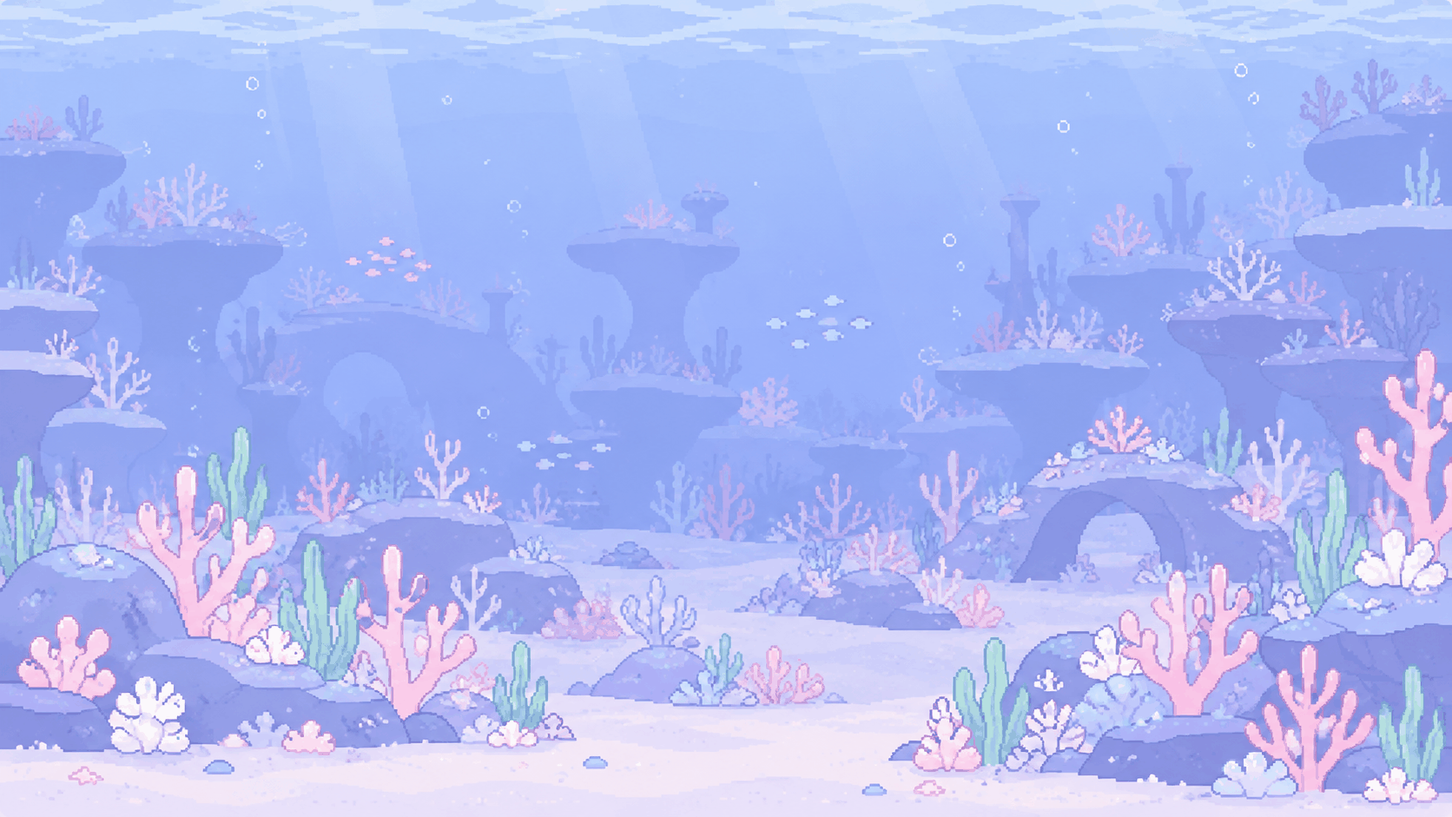
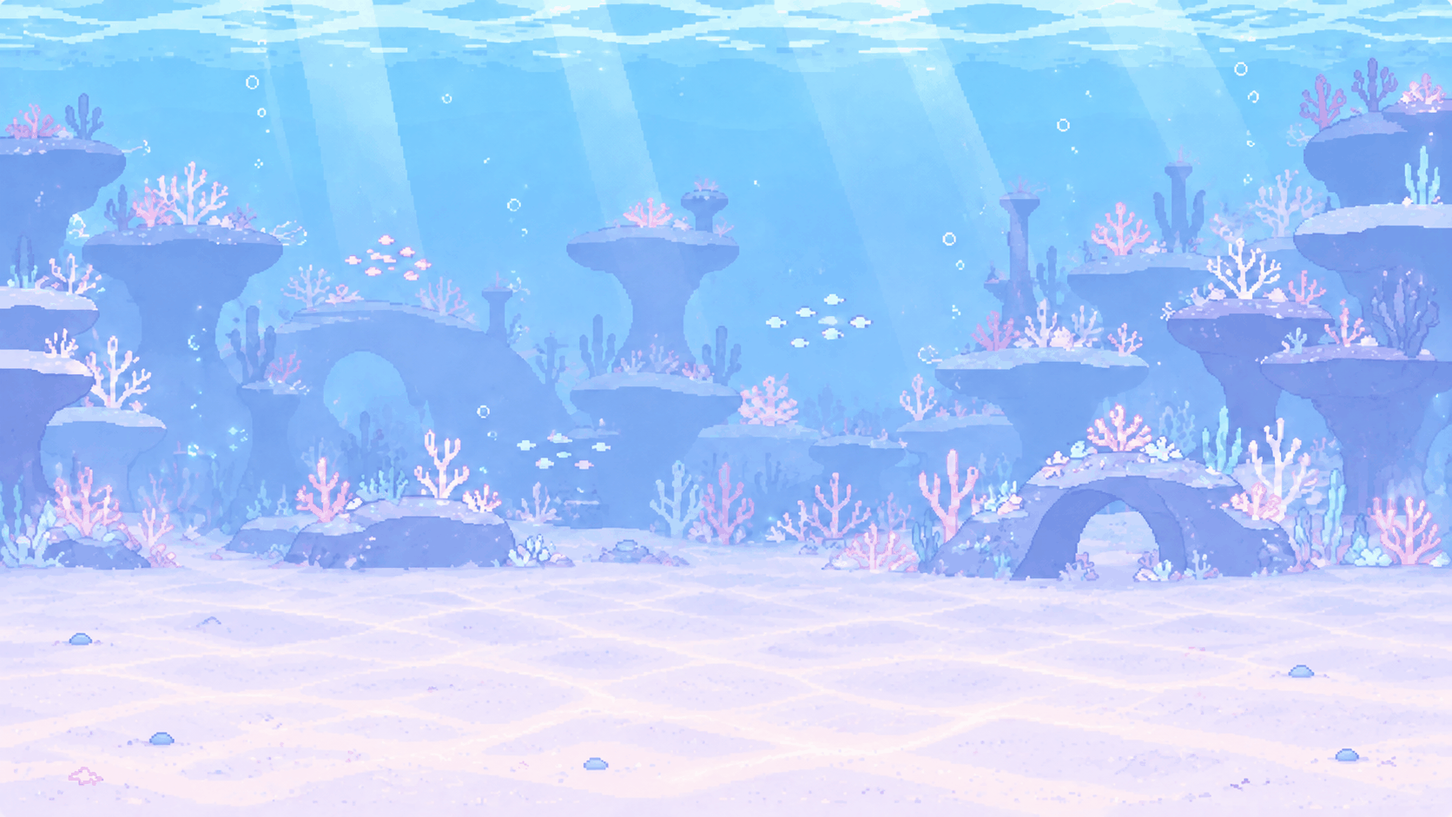
サンゴの森：ピッちゃんの手前なしの背景（ひる・よる）と岩・サンゴ・海藻（開発版）
Claude-Session: https://claude.ai/code/session_01AoJ88BrSyrEsKzo23n7Mg1

diff --git a/source/game.html b/source/game.html
@@ -850,7 +850,7 @@ sprImg.src = 'umimi-sprites.png';
 const COS_IMG = {};
 function cosImgFor(cat){ let im=COS_IMG[cat]; if(!im){ im=COS_IMG[cat]=new Image(); im.onload=()=>{ if(S){ renderTray(); if(!$('closet').hidden) renderCloset(); } }; im.src='c_'+cat+'.png'; } return (im.complete && im.naturalWidth) ? im : null; }
 const VIS_SPR = {"res":1.6,"m":{"jelly":{"w":172,"h":172,"a":"c","y":0},"star":{"w":145,"h":132,"a":"b","y":172},"seahorse":{"w":121,"h":180,"a":"c","y":304},"crab":{"w":180,"h":127,"a":"b","y":484},"dolphin":{"w":236,"h":144,"a":"c","y":611},"penguin":{"w":164,"h":147,"a":"b","y":755},"turtle":{"w":212,"h":145,"a":"b","y":902},"octopus":{"w":164,"h":156,"a":"b","y":1047},"puffer":{"w":161,"h":127,"a":"c","y":1203},"otter":{"w":204,"h":156,"a":"c","y":1330}}};
-const FIMG = {m:{"cbench":{"s":"craft","x":0,"y":0,"w":260,"h":137,"rw":130,"rh":68,"tw":110,"th":58},"cbench_f":{"s":"craft","x":0,"y":139,"w":260,"h":124,"rw":130,"rh":62,"tw":110,"th":52},"ctable":{"s":"craft","x":0,"y":265,"w":220,"h":156,"rw":110,"rh":78,"tw":92,"th":65},"ctable_f":{"s":"craft","x":0,"y":423,"w":220,"h":151,"rw":110,"rh":76,"tw":92,"th":64},"cshelllamp":{"s":"craft","x":0,"y":576,"w":140,"h":141,"rw":70,"rh":70,"tw":62,"th":62},"cshelllamp_f":{"s":"craft","x":0,"y":719,"w":140,"h":142,"rw":70,"rh":71,"tw":62,"th":63},"ccoralpot":{"s":"craft","x":0,"y":863,"w":144,"h":153,"rw":72,"rh":76,"tw":60,"th":63},"ccoralpot_f":{"s":"craft","x":0,"y":1018,"w":144,"h":157,"rw":72,"rh":78,"tw":60,"th":65},"cmobile":{"s":"craft","x":0,"y":1177,"w":160,"h":213,"rw":80,"rh":106,"tw":72,"th":95},"cmobile_f":{"s":"craft","x":0,"y":1392,"w":160,"h":230,"rw":80,"rh":115,"tw":72,"th":104},"bwork":{"s":"craft","x":0,"y":1624,"w":380,"h":352,"rw":190,"rh":176,"tw":190,"th":176},"bsign":{"s":"craft","x":382,"y":0,"w":300,"h":206,"rw":150,"rh":103,"tw":150,"th":103},"bkiln":{"s":"craft","x":382,"y":208,"w":320,"h":318,"rw":160,"rh":159,"tw":160,"th":159},"rug":{"s":"base","x":0,"y":0,"w":340,"h":190,"rw":170,"rh":95,"tw":0,"th":0},"bed":{"s":"base","x":0,"y":192,"w":300,"h":283,"rw":150,"rh":142,"tw":0,"th":0},"lamp":{"s":"base","x":0,"y":477,"w":132,"h":234,"rw":66,"rh":117,"tw":0,"th":0},"cushion":{"s":"base","x":0,"y":713,"w":160,"h":113,"rw":80,"rh":56,"tw":0,"th":0},"plant":{"s":"base","x":0,"y":828,"w":124,"h":153,"rw":62,"rh":76,"tw":0,"th":0},"shelf":{"s":"base","x":0,"y":983,"w":210,"h":332,"rw":105,"rh":166,"tw":0,"th":0},"window":{"s":"base","x":0,"y":1317,"w":270,"h":232,"rw":135,"rh":116,"tw":0,"th":0},"windowday":{"s":"base","x":0,"y":1551,"w":270,"h":232,"rw":135,"rh":116,"tw":0,"th":0},"frame":{"s":"base","x":0,"y":1785,"w":144,"h":148,"rw":72,"rh":74,"tw":0,"th":0},"table":{"s":"base","x":342,"y":0,"w":230,"h":187,"rw":115,"rh":94,"tw":0,"th":0},"shellbed":{"s":"pearl","x":0,"y":0,"w":350,"h":326,"rw":175,"rh":163,"tw":110,"th":102},"shelltable":{"s":"pearl","x":0,"y":328,"w":250,"h":160,"rw":125,"rh":80,"tw":82,"th":52},"shellchair":{"s":"pearl","x":0,"y":490,"w":210,"h":198,"rw":105,"rh":99,"tw":72,"th":68},"bottle":{"s":"pearl","x":0,"y":690,"w":116,"h":136,"rw":58,"rh":68,"tw":42,"th":49},"crystal2":{"s":"pearl","x":0,"y":828,"w":180,"h":164,"rw":90,"rh":82,"tw":62,"th":56},"shellcake":{"s":"pearl","x":0,"y":994,"w":156,"h":161,"rw":78,"rh":80,"tw":54,"th":55},"lanternstand":{"s":"autumn","x":0,"y":0,"w":200,"h":266,"rw":100,"rh":133,"tw":95,"th":126},"stall":{"s":"autumn","x":0,"y":268,"w":400,"h":313,"rw":200,"rh":156,"tw":180,"th":140},"kingyo":{"s":"autumn","x":0,"y":583,"w":380,"h":295,"rw":190,"rh":148,"tw":160,"th":125},"mcushion":{"s":"autumn","x":0,"y":880,"w":230,"h":142,"rw":115,"rh":71,"tw":90,"th":56},"garland":{"s":"autumn","x":0,"y":1024,"w":600,"h":198,"rw":300,"rh":99,"tw":200,"th":66},"chochin":{"s":"autumn","x":0,"y":1224,"w":160,"h":329,"rw":80,"rh":164,"tw":80,"th":164},"omen":{"s":"autumn","x":0,"y":1555,"w":400,"h":349,"rw":200,"rh":174,"tw":180,"th":157},"acorn":{"s":"autumn","x":602,"y":0,"w":120,"h":103,"rw":60,"rh":52,"tw":42,"th":36},"yakiimo":{"s":"autumn","x":602,"y":105,"w":140,"h":90,"rw":70,"rh":45,"tw":48,"th":31},"bridge":{"s":"autumn","x":602,"y":197,"w":460,"h":206,"rw":230,"rh":103,"tw":200,"th":90},"pumpkinstand":{"s":"halloween","x":0,"y":0,"w":170,"h":344,"rw":85,"rh":172,"tw":80,"th":162},"hrug":{"s":"halloween","x":0,"y":346,"w":340,"h":200,"rw":170,"rh":100,"tw":120,"th":71},"ghostcushion":{"s":"halloween","x":0,"y":548,"w":170,"h":149,"rw":85,"rh":74,"tw":72,"th":63},"hframe":{"s":"halloween","x":0,"y":699,"w":160,"h":187,"rw":80,"rh":94,"tw":0,"th":0},"candytable":{"s":"halloween","x":0,"y":888,"w":210,"h":244,"rw":105,"rh":122,"tw":82,"th":95},"hshelf":{"s":"halloween","x":0,"y":1134,"w":230,"h":309,"rw":115,"rh":154,"tw":100,"th":134},"jbox_0":{"s":"halloween","x":0,"y":1445,"w":170,"h":170,"rw":85,"rh":85,"tw":74,"th":74},"jbox_1":{"s":"halloween","x":0,"y":1617,"w":170,"h":170,"rw":85,"rh":85,"tw":74,"th":74},"jbox_2":{"s":"halloween","x":0,"y":1789,"w":170,"h":170,"rw":85,"rh":85,"tw":74,"th":74},"jbox_3":{"s":"halloween","x":342,"y":0,"w":170,"h":170,"rw":85,"rh":85,"tw":74,"th":74},"chandelier_0":{"s":"halloween","x":342,"y":172,"w":260,"h":375,"rw":130,"rh":188,"tw":0,"th":0},"chandelier_1":{"s":"halloween","x":342,"y":549,"w":260,"h":375,"rw":130,"rh":188,"tw":0,"th":0},"chandelier_2":{"s":"halloween","x":342,"y":926,"w":260,"h":375,"rw":130,"rh":188,"tw":0,"th":0},"jbox":{"s":"halloween","x":0,"y":1445,"w":170,"h":170,"rw":85,"rh":85,"tw":74,"th":74},"chandelier":{"s":"halloween","x":342,"y":172,"w":260,"h":375,"rw":130,"rh":188,"tw":0,"th":0},"pdresser":{"s":"pearl","x":0,"y":1157,"w":250,"h":279,"rw":125,"rh":140,"tw":84,"th":94},"pdresser2":{"s":"pearl","x":0,"y":1438,"w":240,"h":312,"rw":120,"rh":156,"tw":82,"th":107},"pnight":{"s":"pearl","x":0,"y":1752,"w":156,"h":203,"rw":78,"rh":102,"tw":56,"th":73},"psofa":{"s":"pearl","x":352,"y":0,"w":370,"h":241,"rw":185,"rh":120,"tw":124,"th":80},"pbox":{"s":"pearl","x":352,"y":243,"w":100,"h":83,"rw":50,"rh":42,"tw":36,"th":30},"bcoral":{"s":"craft","x":382,"y":528,"w":260,"h":236,"rw":130,"rh":118,"tw":130,"th":118}}};
+const FIMG = {m:{"cbench":{"s":"craft","x":0,"y":0,"w":260,"h":137,"rw":130,"rh":68,"tw":110,"th":58},"cbench_f":{"s":"craft","x":0,"y":139,"w":260,"h":124,"rw":130,"rh":62,"tw":110,"th":52},"ctable":{"s":"craft","x":0,"y":265,"w":220,"h":156,"rw":110,"rh":78,"tw":92,"th":65},"ctable_f":{"s":"craft","x":0,"y":423,"w":220,"h":151,"rw":110,"rh":76,"tw":92,"th":64},"cshelllamp":{"s":"craft","x":0,"y":576,"w":140,"h":141,"rw":70,"rh":70,"tw":62,"th":62},"cshelllamp_f":{"s":"craft","x":0,"y":719,"w":140,"h":142,"rw":70,"rh":71,"tw":62,"th":63},"ccoralpot":{"s":"craft","x":0,"y":863,"w":144,"h":153,"rw":72,"rh":76,"tw":60,"th":63},"ccoralpot_f":{"s":"craft","x":0,"y":1018,"w":144,"h":157,"rw":72,"rh":78,"tw":60,"th":65},"cmobile":{"s":"craft","x":0,"y":1177,"w":160,"h":213,"rw":80,"rh":106,"tw":72,"th":95},"cmobile_f":{"s":"craft","x":0,"y":1392,"w":160,"h":230,"rw":80,"rh":115,"tw":72,"th":104},"bwork":{"s":"craft","x":0,"y":1624,"w":380,"h":352,"rw":190,"rh":176,"tw":190,"th":176},"bsign":{"s":"craft","x":382,"y":0,"w":300,"h":206,"rw":150,"rh":103,"tw":150,"th":103},"bkiln":{"s":"craft","x":382,"y":208,"w":320,"h":318,"rw":160,"rh":159,"tw":160,"th":159},"rug":{"s":"base","x":0,"y":0,"w":340,"h":190,"rw":170,"rh":95,"tw":0,"th":0},"bed":{"s":"base","x":0,"y":192,"w":300,"h":283,"rw":150,"rh":142,"tw":0,"th":0},"lamp":{"s":"base","x":0,"y":477,"w":132,"h":234,"rw":66,"rh":117,"tw":0,"th":0},"cushion":{"s":"base","x":0,"y":713,"w":160,"h":113,"rw":80,"rh":56,"tw":0,"th":0},"plant":{"s":"base","x":0,"y":828,"w":124,"h":153,"rw":62,"rh":76,"tw":0,"th":0},"shelf":{"s":"base","x":0,"y":983,"w":210,"h":332,"rw":105,"rh":166,"tw":0,"th":0},"window":{"s":"base","x":0,"y":1317,"w":270,"h":232,"rw":135,"rh":116,"tw":0,"th":0},"windowday":{"s":"base","x":0,"y":1551,"w":270,"h":232,"rw":135,"rh":116,"tw":0,"th":0},"frame":{"s":"base","x":0,"y":1785,"w":144,"h":148,"rw":72,"rh":74,"tw":0,"th":0},"table":{"s":"base","x":342,"y":0,"w":230,"h":187,"rw":115,"rh":94,"tw":0,"th":0},"shellbed":{"s":"pearl","x":0,"y":0,"w":350,"h":326,"rw":175,"rh":163,"tw":110,"th":102},"shelltable":{"s":"pearl","x":0,"y":328,"w":250,"h":160,"rw":125,"rh":80,"tw":82,"th":52},"shellchair":{"s":"pearl","x":0,"y":490,"w":210,"h":198,"rw":105,"rh":99,"tw":72,"th":68},"bottle":{"s":"pearl","x":0,"y":690,"w":116,"h":136,"rw":58,"rh":68,"tw":42,"th":49},"crystal2":{"s":"pearl","x":0,"y":828,"w":180,"h":164,"rw":90,"rh":82,"tw":62,"th":56},"shellcake":{"s":"pearl","x":0,"y":994,"w":156,"h":161,"rw":78,"rh":80,"tw":54,"th":55},"lanternstand":{"s":"autumn","x":0,"y":0,"w":200,"h":266,"rw":100,"rh":133,"tw":95,"th":126},"stall":{"s":"autumn","x":0,"y":268,"w":400,"h":313,"rw":200,"rh":156,"tw":180,"th":140},"kingyo":{"s":"autumn","x":0,"y":583,"w":380,"h":295,"rw":190,"rh":148,"tw":160,"th":125},"mcushion":{"s":"autumn","x":0,"y":880,"w":230,"h":142,"rw":115,"rh":71,"tw":90,"th":56},"garland":{"s":"autumn","x":0,"y":1024,"w":600,"h":198,"rw":300,"rh":99,"tw":200,"th":66},"chochin":{"s":"autumn","x":0,"y":1224,"w":160,"h":329,"rw":80,"rh":164,"tw":80,"th":164},"omen":{"s":"autumn","x":0,"y":1555,"w":400,"h":349,"rw":200,"rh":174,"tw":180,"th":157},"acorn":{"s":"autumn","x":602,"y":0,"w":120,"h":103,"rw":60,"rh":52,"tw":42,"th":36},"yakiimo":{"s":"autumn","x":602,"y":105,"w":140,"h":90,"rw":70,"rh":45,"tw":48,"th":31},"bridge":{"s":"autumn","x":602,"y":197,"w":460,"h":206,"rw":230,"rh":103,"tw":200,"th":90},"pumpkinstand":{"s":"halloween","x":0,"y":0,"w":170,"h":344,"rw":85,"rh":172,"tw":80,"th":162},"hrug":{"s":"halloween","x":0,"y":346,"w":340,"h":200,"rw":170,"rh":100,"tw":120,"th":71},"ghostcushion":{"s":"halloween","x":0,"y":548,"w":170,"h":149,"rw":85,"rh":74,"tw":72,"th":63},"hframe":{"s":"halloween","x":0,"y":699,"w":160,"h":187,"rw":80,"rh":94,"tw":0,"th":0},"candytable":{"s":"halloween","x":0,"y":888,"w":210,"h":244,"rw":105,"rh":122,"tw":82,"th":95},"hshelf":{"s":"halloween","x":0,"y":1134,"w":230,"h":309,"rw":115,"rh":154,"tw":100,"th":134},"jbox_0":{"s":"halloween","x":0,"y":1445,"w":170,"h":170,"rw":85,"rh":85,"tw":74,"th":74},"jbox_1":{"s":"halloween","x":0,"y":1617,"w":170,"h":170,"rw":85,"rh":85,"tw":74,"th":74},"jbox_2":{"s":"halloween","x":0,"y":1789,"w":170,"h":170,"rw":85,"rh":85,"tw":74,"th":74},"jbox_3":{"s":"halloween","x":342,"y":0,"w":170,"h":170,"rw":85,"rh":85,"tw":74,"th":74},"chandelier_0":{"s":"halloween","x":342,"y":172,"w":260,"h":375,"rw":130,"rh":188,"tw":0,"th":0},"chandelier_1":{"s":"halloween","x":342,"y":549,"w":260,"h":375,"rw":130,"rh":188,"tw":0,"th":0},"chandelier_2":{"s":"halloween","x":342,"y":926,"w":260,"h":375,"rw":130,"rh":188,"tw":0,"th":0},"jbox":{"s":"halloween","x":0,"y":1445,"w":170,"h":170,"rw":85,"rh":85,"tw":74,"th":74},"chandelier":{"s":"halloween","x":342,"y":172,"w":260,"h":375,"rw":130,"rh":188,"tw":0,"th":0},"pdresser":{"s":"pearl","x":0,"y":1157,"w":250,"h":279,"rw":125,"rh":140,"tw":84,"th":94},"pdresser2":{"s":"pearl","x":0,"y":1438,"w":240,"h":312,"rw":120,"rh":156,"tw":82,"th":107},"pnight":{"s":"pearl","x":0,"y":1752,"w":156,"h":203,"rw":78,"rh":102,"tw":56,"th":73},"psofa":{"s":"pearl","x":352,"y":0,"w":370,"h":241,"rw":185,"rh":120,"tw":124,"th":80},"pbox":{"s":"pearl","x":352,"y":243,"w":100,"h":83,"rw":50,"rh":42,"tw":36,"th":30},"bcoral":{"s":"craft","x":382,"y":528,"w":260,"h":236,"rw":130,"rh":118,"tw":130,"th":118},"frock1":{"s":"forest","x":0,"y":0,"w":400,"h":255,"rw":200,"rh":128,"tw":200,"th":128},"frock2":{"s":"forest","x":0,"y":257,"w":340,"h":290,"rw":170,"rh":145,"tw":170,"th":145},"frock3":{"s":"forest","x":0,"y":549,"w":300,"h":162,"rw":150,"rh":81,"tw":150,"th":81},"frock4":{"s":"forest","x":0,"y":713,"w":360,"h":181,"rw":180,"rh":90,"tw":180,"th":90},"frock5":{"s":"forest","x":0,"y":896,"w":320,"h":249,"rw":160,"rh":124,"tw":160,"th":124},"frock6":{"s":"forest","x":0,"y":1147,"w":400,"h":190,"rw":200,"rh":95,"tw":200,"th":95},"fkelp1":{"s":"forest","x":0,"y":1339,"w":160,"h":234,"rw":80,"rh":117,"tw":80,"th":117},"fkelp2":{"s":"forest","x":0,"y":1575,"w":172,"h":254,"rw":86,"rh":127,"tw":86,"th":127}}};
 const FSHEETS = {};
 function fsheet(n){ let im=FSHEETS[n]; if(!im){ im=FSHEETS[n]=new Image(); im.onload=()=>{ if(S && mode==='decor') renderTray(); if(typeof asobiView!=='undefined' && asobiView==='room' && room && room.edit) renderAsobi(); }; im.src='f_'+n+'.png'; } return (im.complete && im.naturalWidth) ? im : null; }
 function animKey(k,seed){
@@ -3889,26 +3889,26 @@ function drawCoral(c,co,x,base,s,col,sway){
   c.restore();
 }
 const bgForest = new Image(); let bgForestOn = false; bgForest.onload = () => { bgForestOn = true; }; bgForest.src = 'bg_forest.png';
-const BGF_CUT = .64;   // 絵の 上から この わりあいまでを 奥の背景に使う（下の 手前のサンゴは 使わない）
+const bgForestN = new Image(); let bgForestNOn = false; bgForestN.onload = () => { bgForestNOn = true; };   // よるの絵（よるに 森を見たとき はじめて読み込む）
+// 森の 岩・サンゴ・海藻（ピッちゃん作 f_forest.png と bcoral）[キー, x, 奥行き, 大きさ, 向き]
+const B_ROCKS = [['frock2',70,.98,1,1],['fkelp2',185,.9,.95,1],['frock6',960,.95,.95,-1],['fkelp1',860,.97,.9,-1],['frock4',380,.03,.62,-1],['frock3',150,.16,.66,1],['fkelp1',255,.05,.62,1],['frock5',650,.05,.55,1],['frock1',1010,.3,.7,-1],['bcoral',470,.62,.55,1]];
+const BGF_HZ = .69;   // 絵の 砂の はじまり（上からの わりあい）。ここを floorTop に合わせる
 function drawBgB(p){
   const c = ctx, sc = bScn;
   if(bgForestOn && bgForest.naturalWidth){
-    // 奥：絵の上の部分（岩山・遠くのサンゴ・光）だけを使う。足場の砂は コードで たいらに描く
-    const iw = bgForest.naturalWidth, ih = bgForest.naturalHeight, cut = BGF_CUT*ih, base = floorTop + 26;
-    const s = Math.max(W/iw, base/cut), ox = (W - iw*s)/2, oy = base - cut*s;
-    c.imageSmoothingEnabled = false; c.drawImage(bgForest, 0, 0, iw, cut, ox, oy, iw*s, cut*s); c.imageSmoothingEnabled = true;
-    let g = c.createLinearGradient(0,0,0,base); g.addColorStop(0,'rgba(236,240,255,.06)'); g.addColorStop(1,'rgba(236,240,255,.18)'); c.fillStyle = g; c.fillRect(0,0,W,base);
-    // 足場の砂
-    g = c.createLinearGradient(0,floorTop-10,0,H); g.addColorStop(0,'#c4cbf9'); g.addColorStop(.25,'#d4d4f9'); g.addColorStop(1,'#ebe5f8');
-    c.fillStyle = g; c.beginPath(); c.moveTo(0,H);
-    for(let x=0;x<=W;x+=20) c.lineTo(x, floorTop + Math.sin(x*.011+2)*9 + Math.sin(x*.029)*4);
-    c.lineTo(W,H); c.closePath(); c.fill();
-    c.strokeStyle = 'rgba(255,255,255,.55)'; c.lineWidth = 2; c.beginPath();
-    for(let x=0;x<=W;x+=20) c.lineTo(x, floorTop + Math.sin(x*.011+2)*9 + Math.sin(x*.029)*4 + 1); c.stroke();
-    sandDots.forEach(d => { c.fillStyle = d.l ? 'rgba(255,255,255,.55)' : 'rgba(150,150,210,.18)'; c.beginPath(); c.ellipse(d.x, floorTop+16+d.f*(H-floorTop-16), d.r*1.6, d.r*.8, 0, 0, TAU); c.fill(); });
-    c.fillStyle = 'rgba(150,160,215,.35)'; bScn.pebbles.forEach(pb => { c.beginPath(); c.ellipse(pb.x, floorY(pb.d), pb.r*1.6, pb.r*.7, 0, 0, TAU); c.fill(); });
+    if(night > .01 && !bgForestN.getAttribute('src')) bgForestN.src = 'bg_forest_n.png';
+    const iw = bgForest.naturalWidth, ih = bgForest.naturalHeight, base = floorTop - 6;
+    const s = Math.max(W/iw, base/(BGF_HZ*ih)), dw = iw*s, dh = ih*s, ox = (W-dw)/2, oy = base - BGF_HZ*ih*s;
+    const nA = (bgForestNOn && night > .01) ? night : 0;
+    if(oy + dh < H){ // たて長の画面：絵の下を 砂の色で のばす
+      c.fillStyle = '#f0e5fa'; c.fillRect(0, oy+dh-2, W, H-oy-dh+2);
+      if(nA){ c.globalAlpha = nA; c.fillStyle = '#7a7fe9'; c.fillRect(0, oy+dh-2, W, H-oy-dh+2); c.globalAlpha = 1; } }
+    c.imageSmoothingEnabled = false; c.drawImage(bgForest, ox, oy, dw, dh);
+    if(nA){ c.globalAlpha = nA; c.drawImage(bgForestN, ox, oy, dw, dh); c.globalAlpha = 1; }
+    c.imageSmoothingEnabled = true;
+    let g;
     if(dusk > .01){ c.fillStyle = `rgba(255,170,190,${.16*dusk})`; c.fillRect(0,0,W,H); }
-    if(night > .01){ c.fillStyle = `rgba(18,26,70,${.5*night})`; c.fillRect(0,0,W,H);
+    if(night > .01){ c.fillStyle = `rgba(18,26,70,${(nA ? .1 : .5)*night})`; c.fillRect(0,0,W,H);
       const moonX = W*0.2, moonY = 56; c.globalAlpha = night; g = c.createRadialGradient(moonX,moonY,0,moonX,moonY,120); g.addColorStop(0,'rgba(255,246,214,.45)'); g.addColorStop(1,'rgba(255,246,214,0)'); c.fillStyle = g; c.fillRect(moonX-120,moonY-120,240,240);
       c.fillStyle = 'rgba(255,245,210,.9)'; c.beginPath(); c.ellipse(moonX+Math.sin(T*.8)*2,moonY,22,19,0,0,TAU); c.fill(); c.globalAlpha = 1; }
     c.strokeStyle = `rgba(255,255,255,${.4-.25*night})`; c.lineWidth = 2; c.beginPath();
@@ -4006,7 +4006,9 @@ function drawAreaB(){
   const p = scenePalB(phase);
   drawBgB(p);
   const items = [];
-  if(bgForestOn) [[80,.98,1.05,1],[975,.92,.9,-1],[390,.02,.62,-1],[150,.18,.7,1],[660,.06,.55,1]].forEach(([x,d,k2,fx]) => { const fm=FIMG.m.bcoral; if(fm && fsheet(fm.s)) items.push({y:floorY(d)+.03, f:() => { const s=scaleD(d)*k2; c.fillStyle='rgba(120,120,190,.14)'; c.beginPath(); c.ellipse(x,floorY(d)+2*s,fm.tw*.42*s,7*s,0,0,TAU); c.fill(); c.save(); c.translate(x,floorY(d)+6*s); c.scale(s*fx,s); drawFImg(c,'bcoral',fm.tw,fm.th,0); c.restore(); }}); });
+  if(bgForestOn) B_ROCKS.forEach(([k,x,d,k2,fx]) => { const fm=FIMG.m[k]; if(fm && fsheet(fm.s)) items.push({y:floorY(d)+.03, f:() => { const s=scaleD(d)*k2, y0=floorY(d); c.fillStyle='rgba(120,120,190,.14)'; c.beginPath(); c.ellipse(x,y0+2*s,fm.tw*.42*s,7*s,0,0,TAU); c.fill(); c.save(); c.translate(x,y0+6*s); c.scale(s*fx,s);
+    if(k[1]==='k'){ c.transform(1,0,Math.sin(T*.9+x*.013)*.07,1,0,0); }   // 海藻は ゆらゆら
+    drawFImg(c,k,fm.tw,fm.th,0); c.restore(); }}); });
   if(!bgForestOn) bScn.front.forEach(co => items.push({y:floorY(co.d)-.02, f:() => { const s=scaleD(co.d); drawCoral(c,co,co.x,floorY(co.d)+4*s,s,co.col,.03);
     if(night>.05) co.segs.forEach(sg => { if(sg[0]===sg[2] && sg[1]===sg[3]) glows.push({x:co.x+sg[0]*s, y:floorY(co.d)+4*s+sg[1]*s, r:14*s, col:'255,200,230', a:.22*night}); }); }}));
   items.push({y:floorY(B_SIGN.d)-.01, f:() => drawSign(c)});

diff --git a/source/furniture/build_furniture2.py b/source/furniture/build_furniture2.py
@@ -10,11 +10,13 @@ SERIES = {
  'pearl':   {'shellbed':(175,110),'shelltable':(125,82),'shellchair':(105,72),'bottle':(58,42),'crystal2':(90,62),'shellcake':(78,54),'pdresser':(125,84),'pdresser2':(120,82),'pnight':(78,56),'psofa':(185,124),'pbox':(50,36)},
  'autumn':  {'lanternstand':(100,95),'stall':(200,180),'kingyo':(190,160),'mcushion':(115,90),'garland':(300,200),'chochin':(80,80),'omen':(200,180),'acorn':(60,42),'yakiimo':(70,48),'bridge':(230,200)},
  'craft':   {'cbench':(130,110),'cbench_f':(130,110),'ctable':(110,92),'ctable_f':(110,92),'cshelllamp':(70,62),'cshelllamp_f':(70,62),'ccoralpot':(72,60),'ccoralpot_f':(72,60),'cmobile':(80,72),'cmobile_f':(80,72),'bwork':(190,190),'bsign':(150,150),'bkiln':(160,160),'bcoral':(130,130)},
+ 'forest':  {'frock1':(200,200),'frock2':(170,170),'frock3':(150,150),'frock4':(180,180),'frock5':(160,160),'frock6':(200,200),'fkelp1':(80,80),'fkelp2':(86,86)},
  'halloween':{'pumpkinstand':(85,80),'hrug':(170,120),'ghostcushion':(85,72),'hframe':(80,0),'candytable':(105,82),'hshelf':(115,100),'jbox':(85,74,4,'b'),'chandelier':(130,0,3,'t')},
 }
-def keyed(a):
+NOSPILL={'fkelp1','fkelp2','frock1'}  # 緑っぽい 海藻は 緑の にじみ消しを しない
+def keyed(a,spill=True):
     G=bgcolor(a); rgba,dist=key(a,G)
-    if G[1]>G[0]+80:
+    if spill and G[1]>G[0]+80:
         g=a; spill=(g[...,1]>g[...,0]+30)&(g[...,1]>g[...,2]+30)&(g.mean(-1)>90); rgba[...,3]=np.where(spill,0,rgba[...,3])
     m=rgba[...,3]>20
     lab,k=ndimage.label(m)
@@ -31,7 +33,7 @@ for sname,items in SERIES.items():
         rw,tw=spec[0],spec[1]; nf=spec[2] if len(spec)>2 else 1
         a=np.array(Image.open(f'src/{n}.png').convert('RGB')).astype(float)
         H,W,_=a.shape; cw=W//nf
-        frames=[keyed(a[:, i*cw:(i+1)*cw].copy()) for i in range(nf)]
+        frames=[keyed(a[:, i*cw:(i+1)*cw].copy(), n not in NOSPILL) for i in range(nf)]
         # union bbox so all frames stay aligned
         ys=[];xs=[]
         for f in frames:

diff --git a/desktop/build_desktop.py b/desktop/build_desktop.py
@@ -188,6 +188,6 @@ body.ring #derby.racing{display:none!important}
 head = head.replace('</style>', dcss + '\n</style>', 1)
 # 家具（f_*.png）と模様は app フォルダに png のまま同梱する（使うときだけ読み込む）
 import glob as _glob, shutil as _sh
-for _f in _glob.glob('f_*.png')+['roomtex.png']: _sh.copy(_f, 'desktop/app/'+_f)
+for _f in _glob.glob('f_*.png')+['roomtex.png','bg_forest.png']: _sh.copy(_f, 'desktop/app/'+_f)
 open('desktop/app/index.html','w').write(head + "\n<script>" + s + "</script>\n</body></html>\n")
 print('built', len(s))

diff --git a/CLAUDE.md b/CLAUDE.md
@@ -11,7 +11,7 @@
 ## ★新しい会話で続けるとき（最初に読む）
 - 作業場所：このリポジトリを clone（例 /home/claude/umimi-repo）。本体は `source/game.html`、画像は直下の png
 - **本番・開発版のリンクは絶対に変えない**。Artifact を公開するときは必ず `url` に下の既存URLを渡す（url なしで公開すると別リンクが新しくできてしまう）。別の会話から更新する前に、いったん `action: "read"` でその URL を読む
-- 公開するとき、画像は `files` に**絶対パス**で全部渡す：`c_animal.png` `c_food.png` `c_season.png` `c_work.png` `c_fashion.png` `c_relax.png` `c_dream.png` `c_adv.png` `c_princess.png`、2コマ目の `c_<分類>2.png`（9枚）、`umimi-sprites.png` `visitors.png` `roomtex.png` `f_base.png` `f_pearl.png` `f_autumn.png` `f_halloween.png` `f_craft.png` `bg_forest.png`。capability は `downloads`（前のバージョンから引き継がれる）
+- 公開するとき、画像は `files` に**絶対パス**で全部渡す：`c_animal.png` `c_food.png` `c_season.png` `c_work.png` `c_fashion.png` `c_relax.png` `c_dream.png` `c_adv.png` `c_princess.png`、2コマ目の `c_<分類>2.png`（9枚）、`umimi-sprites.png` `visitors.png` `roomtex.png` `f_base.png` `f_pearl.png` `f_autumn.png` `f_halloween.png` `f_craft.png` `f_forest.png` `bg_forest.png` `bg_forest_n.png`。capability は `downloads`（前のバージョンから引き継がれる）
 - 開発版は `<title>ウミミの箱庭</title>` を `<title>ウミミの箱庭 開発版</title>` に置き換えたものを公開する
 - 確認用：ローカルで `python3 -m http.server` を立て、`<!doctype html><meta charset=utf-8>` を先頭に付けた試験用コピーを Playwright（/opt/pw-browsers）で開く。本体は IIFE なので、試すときは試験用コピーにだけ window.__xxx のフックを足す
 - 公開するときは「開発版か本番か」を必ずユーザーに伝える。本番は OK が出てから
@@ -61,7 +61,7 @@
   - うさぎのきぐるみは10コマ分（ふつうのウミミと同じ並び）が届いているので、将来アニメに使える
   - ウミミの色に合わせた色変え：`recolorSheet()`。色を変えない衣装は `COS_KEEP`。チョコとマントはコードで描いている
 - `visitors.png` … 訪問者10種×2コマ。作り直すときは `source/visitors/build_visitors.py`。出力された visitors_meta.json を game.html の `const VIS_SPR = {...}` に貼る。絵がまだ読み込まれていないときは、コードで描いた旧訪問者を表示する
-- `f_base.png` `f_pearl.png` `f_autumn.png` `f_halloween.png` `f_craft.png` … 家具・飾りのシリーズ別シート（ピッちゃん=ChatGPT作の絵を背景抜き・色数圧縮）。**使うときだけ読み込む**（`fsheet()`）。作り直しは `source/furniture/build_furniture2.py`（SERIES に「キー:(おへや幅, 水そう幅[, コマ数, 基準])」を足す）→ 出力 furniture_meta.json を game.html の `const FIMG = {m:...}` に貼る。`python3 build_furniture2.py craft` のようにシリーズ名を渡すと、そのシートだけ作り直す（他のシートの meta は残す）（jbox/chandelier は _0 のエイリアスも）
+- `f_base.png` `f_pearl.png` `f_autumn.png` `f_halloween.png` `f_craft.png` `f_forest.png`（森の岩・海藻。緑っぽい物は build の `NOSPILL`）… 家具・飾りのシリーズ別シート（ピッちゃん=ChatGPT作の絵を背景抜き・色数圧縮）。**使うときだけ読み込む**（`fsheet()`）。作り直しは `source/furniture/build_furniture2.py`（SERIES に「キー:(おへや幅, 水そう幅[, コマ数, 基準])」を足す）→ 出力 furniture_meta.json を game.html の `const FIMG = {m:...}` に貼る。`python3 build_furniture2.py craft` のようにシリーズ名を渡すと、そのシートだけ作り直す（他のシートの meta は残す）（jbox/chandelier は _0 のエイリアスも）
 - `roomtex.png` … おへやの壁紙・床の模様タイル4枚（`source/furniture/build_tex.py`）
 - デスクトップ版の「画面一周ダービー」：水そうの「ダービー」ボタン → main.js が作業領域いっぱいの透明ウインドウを `index.html#derby` で開く（`DESK_RING`）。予想の画面は真ん中、スタートするとクリックが下のアプリに通る。5匹は画面のいちばん外側を1列で一周（左下がスタート・ゴール、水そうの上も通る）。名前は出さず、賭けた子が金色に光る。閉じると水そうが読み込み直して結果を反映（開いているあいだは水そう側は保存しない `window.__noSave`）。Esc で閉じる
 - `desktop/` … Windows デスクトップ版（Electron）。`python3 build_desktop.py` で、game.html から画面の下に出る細長い水そう版の `desktop/app/index.html` を作る（ウミミ・訪問者・おきがえ c_*.png は data URI で埋め込む＝色変えのため。家具 f_*.png と roomtex.png は app に png をコピー。どこから実行してもよい。index.html から作るので、先に index.html を作り直す。置き換える文字列が合わないと assert で止まるので、本体を変えたら置き換え側も直す）
@@ -73,7 +73,7 @@
 - 水そうの左上のタブで切り替え（パネルを開いているあいだは隠れる）（`buildAreaTabs()`。`nav.tools` が無いデスクトップ版では作らない＝`areaUI()`）。B のときは body.areaB でツールを隠し、トレイは `renderTrayB()`（おでかけする子をえらぶ）
 - B は同じキャンバスに `drawAreaB()` で描く。A の `update()` は B を見ているあいだも動き続ける（A の暮らしはそのまま）
 - おでかけ：えらんだ子（最大 `B_MAX`=3）の**コピー**が B を歩く（A にもいる）。`S.areaB = {members:[id], visited}`、いま見ているエリアは `S.area`（'a'|'b'）。コピーは `bCopies`（保存しない）、パーティクルは `pB`
-- B の背景はピッちゃん作の `bg_forest.png`（1672x941、256色。元は source/furniture/src/forestbg_src.png）。**奥と足場を分けて**使う：絵の上から `BGF_CUT`=.64 までを奥の背景にして floorTop 付近に合わせ、足場の砂はコードで たいらに描く（絵の手前のサンゴは使わない）。夕方・夜は色をかぶせる。読み込み前はコードの絵。手前のサンゴは `bcoral`（f_craft.png）を5か所に置き、ウミミと前後が入れかわる。おへやの壁紙「サンゴの森」（WALLS.coralforest）も この絵の奥を使う
+- B の背景はピッちゃん作の手前なしの絵：ひる `bg_forest.png`／よる `bg_forest_n.png`（1672x941、256色。元は source/furniture/src/forestday_src.png・forestnight_src.png）。絵の砂のはじまり `BGF_HZ`=.69 を floorTop に合わせ、よるは よるの絵を night の濃さで重ねる（よるの絵は よるに森を見たとき はじめて読み込む）。たて長の画面は 絵の下を砂の色でのばす。手前の岩・サンゴ・海藻は `B_ROCKS`（f_forest.png の frock1〜6・fkelp1〜2 と bcoral。海藻はゆらゆら）。ウミミと前後が入れかわる。読み込み前はコードの絵。おへやの壁紙「サンゴの森」（WALLS.coralforest）も この絵の上のほうを使う（デスクトップ版は bg_forest.png を app にコピー）
 - B の作業台（`B_BENCH`）・貝殻窯（`B_KILN`）・看板はまだ飾り（タップで「もうすぐ」）
 - そざい（ステップ2）：`MATS` 5種＝流木 wood／貝がら shell／サンゴのかけら coral／海ガラス glass／ほしのすな sand（w は出やすさ）。もっている数は `S.mats`
   - 流れ着く：森の砂に `S.bDrops`（さいだい `DROP_MAX`=6）。開いているあいだ 70〜130秒に1こ（A を見ていても）、るすのあいだは30分に1こ（`awayDrops`）。タップで +1
